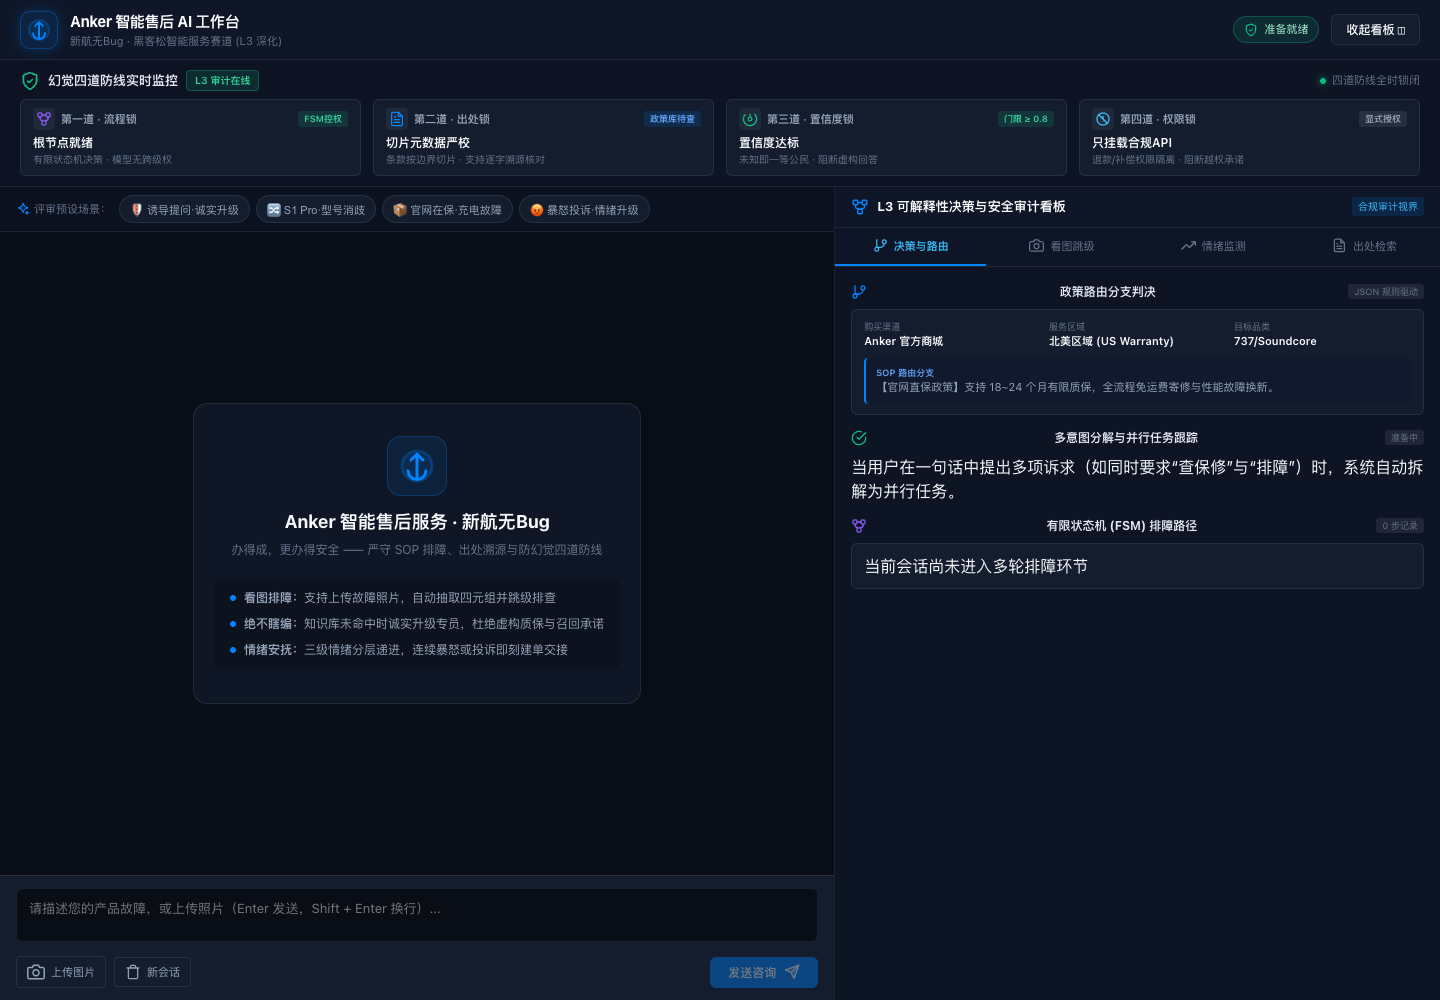
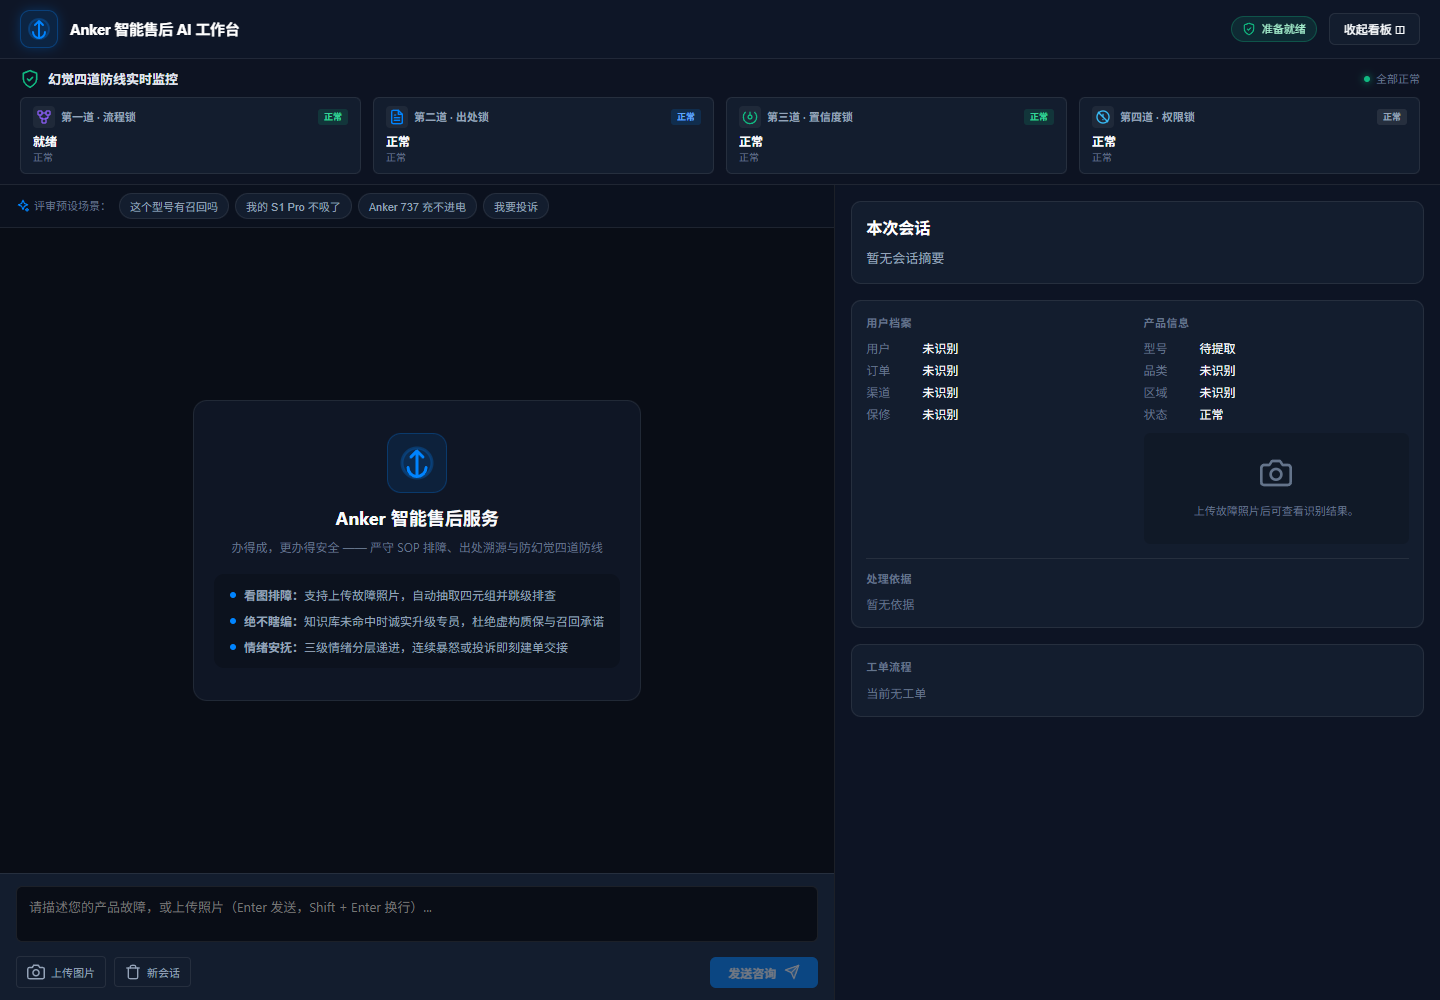
feat(frontend): B2 用户气泡情绪/理解辅助（只渲染模型给的值）

diff --git a/frontend/src/hooks/useEventParser.ts b/frontend/src/hooks/useEventParser.ts
@@ -6,7 +6,6 @@
 
 import { useMemo } from 'react';
 import type { DifyEvent, RoutingStep, TaskItem, RetrievalRecord, EmotionPoint, TroubleshootingState, ChatMessage } from '../types';
-import { buildInitialStates, inferVisionEvidence } from '../utils/inference';
 import { parseEvidence } from '../utils/evidence';
 
 interface UseEventParserOpts {
@@ -27,25 +26,9 @@ export function useEventParser({ events, initialQuery, initialAttachments, lastA
       toolCalls: [],
     };
 
-    // 1. 初始推断（在 LLM 返回前显示，让 UI 立即有状态）
-    // P0-2 修复: 用 initialQuery 计算即时 emotion/intent/product
-    if (initialQuery) {
-      const init = buildInitialStates(initialQuery);
-      routing.push(...init.routing);
-      tasks.push(...init.tasks);
-      emotions.push(...init.emotions);
-      Object.assign(state, init.state);
-      // 视觉证据（如果有附件）
-      if (initialAttachments && initialAttachments.length > 0) {
-        const ev = inferVisionEvidence(initialQuery, initialAttachments);
-        if (ev) (state as any).visionEvidence = ev;
-      }
-    }
+    // 只渲染服务/模型给的值：不在前端从用户原话推断情绪/意图/产品（B2 边界）。
 
-    // P0-2 修复: 每次 events 重新计算时，从 events 中**累积**情绪值（覆盖初始推断）
-    // 处理逻辑下移，避免提前 return 跳出
-
-    // 2. 处理 Dify 事件
+    // 处理 Dify 事件
     for (const e of events || []) {
       if (e.event === 'agent_thought') {
         parseThought(e.thought || '', routing, tasks, emotions, state);
@@ -216,6 +199,7 @@ export function useEventParser({ events, initialQuery, initialAttachments, lastA
       const ev = parseEvidence(lastAssistantMessage.content || '');
       if (ev) {
         if (ev.product) state.productModel = ev.product === 'Anker737' ? 'Anker 737' : ev.product;
+        if (ev.emotion) state.emotion = ev.emotion;
         if (ev.node) state.currentNode = ev.node;
         if (ev.emotion && (ev.emotion as any) !== state.emotionLevel) {
           state.emotionLevel = ev.emotion as any;

diff --git a/frontend/src/components/UnderstandingBubble.tsx b/frontend/src/components/UnderstandingBubble.tsx
@@ -1,0 +1,42 @@
+import type { UserInsight } from '../types';
+
+// 契约 B：情绪档位只渲染模型判定的值
+const EMOTION_LABELS: Record<string, string> = {
+  L0: '平静',
+  L1: '不满',
+  L2: '明显愤怒',
+  L3: '投诉风险',
+};
+
+const INTENT_LABELS: Record<string, string> = {
+  troubleshooting: '故障报修',
+  inquiry: '咨询',
+  return_or_exchange: '退换货',
+  transfer_human: '转人工',
+  complaint: '投诉',
+  out_of_scope: '超出服务范围',
+};
+
+// 只挂在用户消息下方：展示系统听懂了什么。未识别到的项不显示该行。
+export default function UnderstandingBubble({ emotion, intents, product, keyInfo }: UserInsight) {
+  const emotionLabel = emotion ? EMOTION_LABELS[emotion] : undefined;
+  const intentLabels = (intents || []).map(i => INTENT_LABELS[i]).filter(Boolean);
+  const understood = [...intentLabels, product, keyInfo].filter(Boolean) as string[];
+
+  if (!emotionLabel && understood.length === 0) return null;
+
+  return (
+    <div className="understanding-bubble">
+      {emotionLabel && (
+        <div className="ub-line">
+          <span className="ub-ico">⚡</span> 情绪：{emotionLabel}（{emotion}）
+        </div>
+      )}
+      {understood.length > 0 && (
+        <div className="ub-line">
+          <span className="ub-ico">🎯</span> 理解为：{understood.join(' · ')}
+        </div>
+      )}
+    </div>
+  );
+}

diff --git a/frontend/src/components/ChatWindow.tsx b/frontend/src/components/ChatWindow.tsx
@@ -1,5 +1,5 @@
 import { useState, useRef, useEffect, KeyboardEvent } from 'react';
-import type { ChatMessage } from '../types';
+import type { ChatMessage, UserInsight } from '../types';
 import MessageBubble from './MessageBubble';
 import {
   IconSend,
@@ -16,6 +16,8 @@ interface Props {
   onSend: (text: string, files?: Array<{ type: string; url: string }>) => void;
   onReset: () => void;
   error: string | null;
+  /** 仅挂到最后一条用户消息下方（B2） */
+  userInsight?: UserInsight;
 }
 
 const DEMO_PRESETS: Array<{ label: string; query: string; icon?: string }> = [
@@ -31,7 +33,9 @@ export default function ChatWindow({
   onSend,
   onReset,
   error,
+  userInsight,
 }: Props) {
+  const lastUserId = [...messages].reverse().find(m => m.role === 'user')?.id;
   const [input, setInput] = useState('');
   const [images, setImages] = useState<string[]>([]);
   const scrollRef = useRef<HTMLDivElement>(null);
@@ -143,6 +147,7 @@ export default function ChatWindow({
               message={m}
               onConfirmProduct={(_id, name) => onSend(`我指的是 ${name}`)}
               isStreaming={isStreaming}
+              insight={m.role === 'user' && m.id === lastUserId ? userInsight : undefined}
             />
           ))
         )}

diff --git a/frontend/src/App.tsx b/frontend/src/App.tsx
@@ -1,6 +1,8 @@
 import { useState } from 'react';
 import { useDifyChat } from './hooks/useDifyChat';
 import { useEventParser } from './hooks/useEventParser';
+import { extractKeyInfo } from './utils/inference';
+import type { UserInsight } from './types';
 import ChatWindow from './components/ChatWindow';
 import DefenseMatrix from './components/DefenseMatrix';
 import SidePanel from './components/SidePanel';
@@ -37,6 +39,14 @@ export default function App() {
   const privilegeRequested = chat.messages.some(
     m => m.role === 'user' && /退款|退货|赔偿|补偿|退钱|退一赔三/.test(m.content || '')
   );
+
+  // B2 用户辅助气泡：情绪/意图/产品只取服务与模型给的值，关键信息取自用户原话
+  const userInsight: UserInsight = {
+    emotion: state.emotion,
+    intents: state.intents,
+    product: state.productModel,
+    keyInfo: extractKeyInfo(initialQuery),
+  };
 
   return (
     <div className="anker-workbench-app">
@@ -85,6 +95,7 @@ export default function App() {
             onSend={(query, files) => chat.send({ query, files })}
             onReset={chat.reset}
             error={chat.error}
+            userInsight={userInsight}
           />
         </section>
 

diff --git a/frontend/src/components/MessageBubble.tsx b/frontend/src/components/MessageBubble.tsx
@@ -1,5 +1,5 @@
 import { useMemo } from 'react';
-import type { ChatMessage } from '../types';
+import type { ChatMessage, UserInsight } from '../types';
 import {
   IconUser,
   IconAnkerLogo,
@@ -8,15 +8,18 @@ import {
   IconSparkles,
 } from './SvgIcons';
 import ProductDisambigCard, { type ProductCandidate } from './ProductDisambigCard';
+import UnderstandingBubble from './UnderstandingBubble';
 import { safeSource } from '../utils/evidence';
 
 interface Props {
   message: ChatMessage;
   onConfirmProduct: (id: string, name: string) => void;
   isStreaming?: boolean;
+  /** 仅最后一条用户消息带：情绪与理解辅助（B2） */
+  insight?: UserInsight;
 }
 
-export default function MessageBubble({ message, onConfirmProduct, isStreaming }: Props) {
+export default function MessageBubble({ message, onConfirmProduct, isStreaming, insight }: Props) {
   const isUser = message.role === 'user';
   const rawContent = message.content || '';
 
@@ -144,6 +147,8 @@ export default function MessageBubble({ message, onConfirmProduct, isStreaming }
             </details>
           )}
         </div>
+
+        {isUser && insight && <UnderstandingBubble {...insight} />}
       </div>
     </article>
   );

diff --git a/frontend/src/utils/inference.ts b/frontend/src/utils/inference.ts
@@ -253,6 +253,17 @@ export function buildInitialStates(query: string): {
   };
 }
 
+// ========== 「理解为」里的关键信息：只从用户原话里截取已命中的短语，不做推断 ==========
+const KEY_INFO_KW = [
+  '充不进电', '充不进去', '充不上电', '无法充电', '充电慢',
+  '没声音', '单边无声', '一边没声音', '连不上', '配对失败',
+  '鼓包', '冒烟', '起火', '漏液', '黑屏', '不吸',
+  '退货', '退款', '换货', '保修', '质保', '召回',
+];
+export function extractKeyInfo(query: string): string | undefined {
+  return KEY_INFO_KW.find(k => query.includes(k));
+}
+
 // ========== 视觉证据解析（从 LLM 输出中匹配鼓包/漏液/起火等关键词）==========
 export function inferVisionEvidence(query: string, attachments: Array<{ type: string; url: string }> = []): {
   product_model: string;

diff --git a/frontend/src/types.ts b/frontend/src/types.ts
@@ -72,6 +72,8 @@ export interface TroubleshootingState {
   };
   /** 契约 B：会话摘要（模型产出，透传） */
   summary?: string;
+  /** 契约 B：情绪档位 L0–L3（模型判定） */
+  emotion?: string;
   /** 契约 B：本轮意图数组（待 A 端回填 state.intents） */
   intents?: string[];
   /** 契约 B：排障追问的可点选项（最多 3 个） */
@@ -84,6 +86,15 @@ export interface TroubleshootingState {
   safetyLatched?: boolean;
   /** 契约 B：用户档案（待 A 端回填 state.user） */
   user?: UserProfile;
+}
+
+// ========== 用户辅助气泡（B2）==========
+
+export interface UserInsight {
+  emotion?: string;
+  intents?: string[];
+  product?: string;
+  keyInfo?: string;
 }
 
 // ========== 用户档案 ==========

diff --git a/frontend/src/styles.css b/frontend/src/styles.css
@@ -1964,3 +1964,29 @@ body {
   color: var(--anker-cyan);
   margin-left: 4px;
 }
+
+/* --------------------------------------------------------------------------
+   12. 用户消息下方的情绪与理解辅助气泡 (B2)
+   -------------------------------------------------------------------------- */
+.understanding-bubble {
+  margin-top: 6px;
+  padding: 6px 10px;
+  background: rgba(0, 132, 255, 0.08);
+  border: 1px solid rgba(0, 132, 255, 0.18);
+  border-radius: var(--radius-sm);
+  display: flex;
+  flex-direction: column;
+  gap: 2px;
+}
+
+.ub-line {
+  font-size: 11px;
+  color: var(--text-secondary);
+  display: flex;
+  align-items: center;
+  gap: 4px;
+}
+
+.ub-ico {
+  font-size: 11px;
+}
